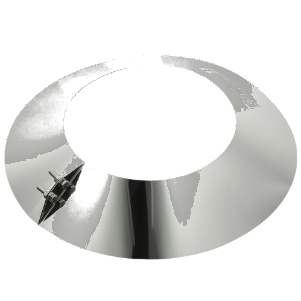
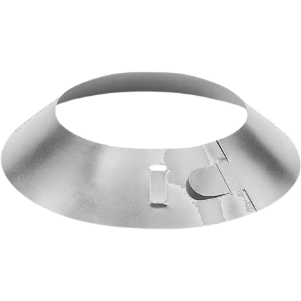
**Rain collar swapped + catalog trimmed to photo-only — complete** - The Rain Collar card now shows your new spun collar photo — I removed the white background with edge-flood-fill so the collar's bright reflections stayed intact (no holes punched through the metal). - Every product without a photo 
Emergent-Commit-Key: f9284d66875409d9f8471046978f962b408b7dc3a888cac7179fcf2ac639a492

diff --git a/frontend/src/data/products.js b/frontend/src/data/products.js
@@ -1,4 +1,4 @@
-export const CATEGORIES = ["All", "Drainage", "Penetrations", "Perimeter", "Structural"];
+export const CATEGORIES = ["All", "Drainage", "Penetrations", "Perimeter"];
 
 export const PRODUCTS = [
   {
@@ -17,20 +17,6 @@ export const PRODUCTS = [
     tag: "Architectural Priority",
   },
   {
-    id: "drain-cones",
-    name: "Precision Tapered Metal Drain Cones",
-    shortName: "Drain Cones",
-    category: "Drainage",
-    shortDesc:
-      "Engineered sumped drain sleeves for smooth pitch transition and zero water accumulation around roof drains.",
-    materials: ["Galvanized Steel", "Stainless Steel 304", 'Heavy Aluminum 0.080"'],
-    gauges: '18 Ga, 20 Ga, 22 Ga Galvanized / 0.080" Alum',
-    sizes: '18"x18", 24"x24", 36"x36" Sump Boxes (Custom drop depths)',
-    finishes: "Raw Mill, Hot-Dip Galvanized, TPO/PVC Bonded",
-    astm: "ASTM A653, ASTM A240",
-    tag: "High-Flow Design",
-  },
-  {
     id: "roof-cones",
     name: "Spun Aluminum Roofing Cones",
     shortName: "Roof Cones",
@@ -45,20 +31,6 @@ export const PRODUCTS = [
     finishes: "Mill Finish, TPO/PVC Bonded Base, Soldered Seams",
     astm: "ASTM B209, SMACNA Architectural",
     tag: "Spun One-Piece",
-  },
-  {
-    id: "pitch-pockets",
-    name: "Heavy-Gauge Fabricated Pitch Pockets",
-    shortName: "Pitch Pockets",
-    category: "Penetrations",
-    shortDesc:
-      "Flanged penetration seal boxes designed for single & multi-conduit roof penetrations poured with sealant.",
-    materials: ["Copper", "Stainless Steel", "Galvanized Steel", "TPO-Coated Metal"],
-    gauges: "24 Ga Galvanized / 16oz Copper / 24 Ga SS",
-    sizes: '4"x4" up to 24"x24" Base Flange; Heights 4", 6", 8"',
-    finishes: "Soldered Seams, TIG Welded, TPO Coated",
-    astm: "ASTM B209, NRCA Commercial Standard",
-    tag: "Watertight Seal",
   },
   {
     id: "stack-jacks",
@@ -93,20 +65,6 @@ export const PRODUCTS = [
     tag: "Parapet Essential",
   },
   {
-    id: "roof-curbs",
-    name: "Structural HVAC & Skylight Roof Curbs",
-    shortName: "Roof Curbs",
-    category: "Structural",
-    shortDesc:
-      "Heavy-duty insulated structural roof curbs built for heavy rooftop units, fans, skylights, and hatches.",
-    materials: ["18 Ga / 14 Ga Galvanized Steel", 'Aluminum 0.080"'],
-    gauges: '14 Ga Structural Heavy Steel (3/16" reinforced corners)',
-    sizes: '12", 18", 24" Height; Base sizes to match equipment (up to 120" length)',
-    finishes: 'Factory Insulated (1.5" rigid fiberglass), Pressure Welded',
-    astm: "NRCA & SMACNA Standards",
-    tag: "Load Rated",
-  },
-  {
     id: "rain-collars",
     name: "Rain Collars with Draw Bands",
     shortName: "Rain Collar",
@@ -136,20 +94,6 @@ export const PRODUCTS = [
     finishes: "Mill Finish, Stainless Polished, Powder Coated Black",
     astm: "ASTM A653, SMACNA Architectural",
     tag: "Spark Screened",
-  },
-  {
-    id: "metal-sleeves",
-    name: "Pipe & Vent Penetration Sleeves with Umbrella Collars",
-    shortName: "Metal Sleeves",
-    category: "Penetrations",
-    shortDesc:
-      "TIG welded stainless & galvanized pipe sleeves complete with draw-band storm collars for severe weather protection.",
-    materials: ["Stainless Steel 304/316", "Galvanized Steel", "Heavy Copper"],
-    gauges: "20 Ga Stainless / 18 Ga Galvanized",
-    sizes: '2" to 12" Pipe Diameters; 12" to 24" Sleeve Height',
-    finishes: "Smooth TIG Welded, Stainless Polished, TPO-Bonded Flange",
-    astm: "ASTM A240 / SMACNA",
-    tag: "Weatherproof",
   },
 ];
 

diff --git a/frontend/src/pages/Home.jsx b/frontend/src/pages/Home.jsx
@@ -87,7 +87,7 @@ const Hero = () => {
             <Reveal delay={0.75} className="mt-6 max-w-xl">
               <p className="text-base leading-relaxed text-slate-400 sm:text-lg">
                 We manufacture the drainage and edge-metal components that keep commercial flat
-                roofs watertight — roof drains, scuppers, curbs, stack jacks and more, brake-formed
+                roofs watertight — roof drains, scuppers, cones, stack jacks and more, brake-formed
                 and TIG-welded in Chicago.
               </p>
             </Reveal>
@@ -214,12 +214,12 @@ const Stats = () => (
 );
 
 const ProductStrip = () => {
-  const featured = ["roof-drains", "scuppers", "roof-curbs", "stack-jacks"];
+  const featured = ["roof-drains", "scuppers", "chimney-caps", "stack-jacks"];
   return (
     <section className="border-b border-line" data-testid="product-strip-section">
       <div className="mx-auto max-w-[1440px] px-5 py-24 sm:px-8 sm:py-32">
         <div className="flex flex-wrap items-end justify-between gap-6">
-          <SectionHead index="002" eyebrow="The Lineup" title="Ten Components. One Watertight Roof." />
+          <SectionHead index="002" eyebrow="The Lineup" title="Six Components. One Watertight Roof." />
           <Reveal delay={0.2}>
             <Link
               to="/products"
